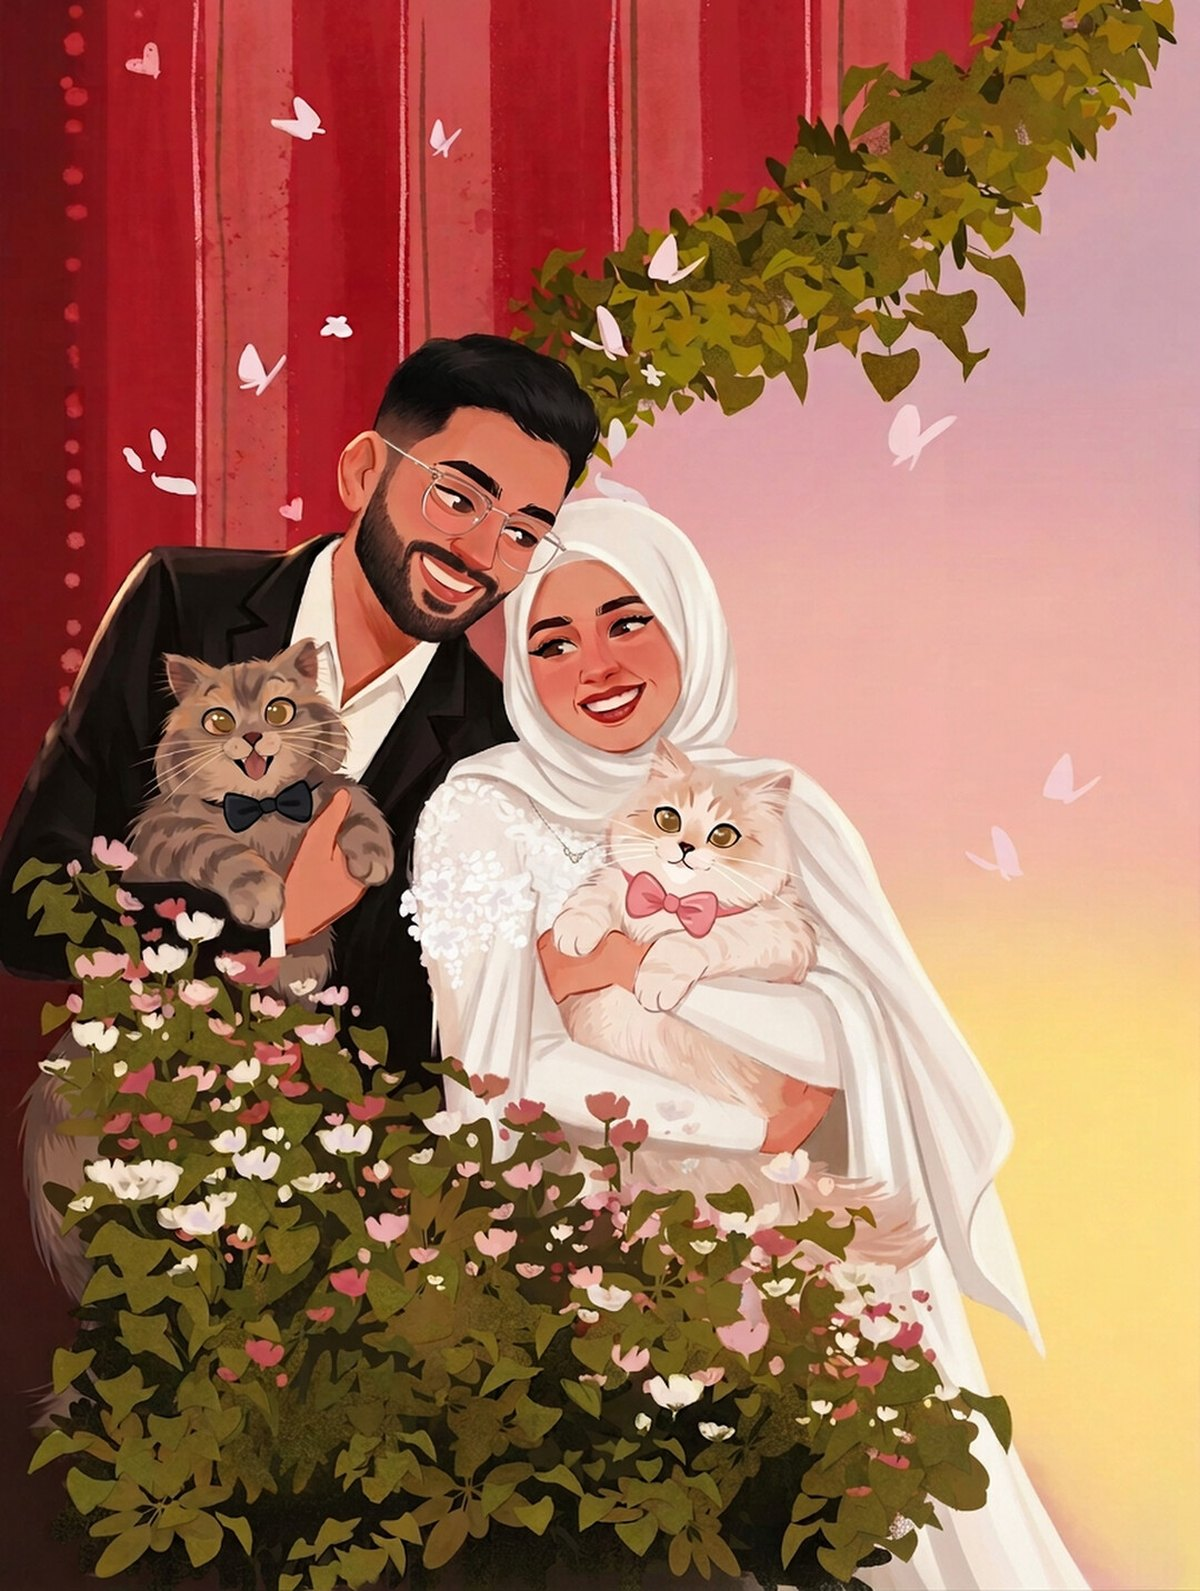
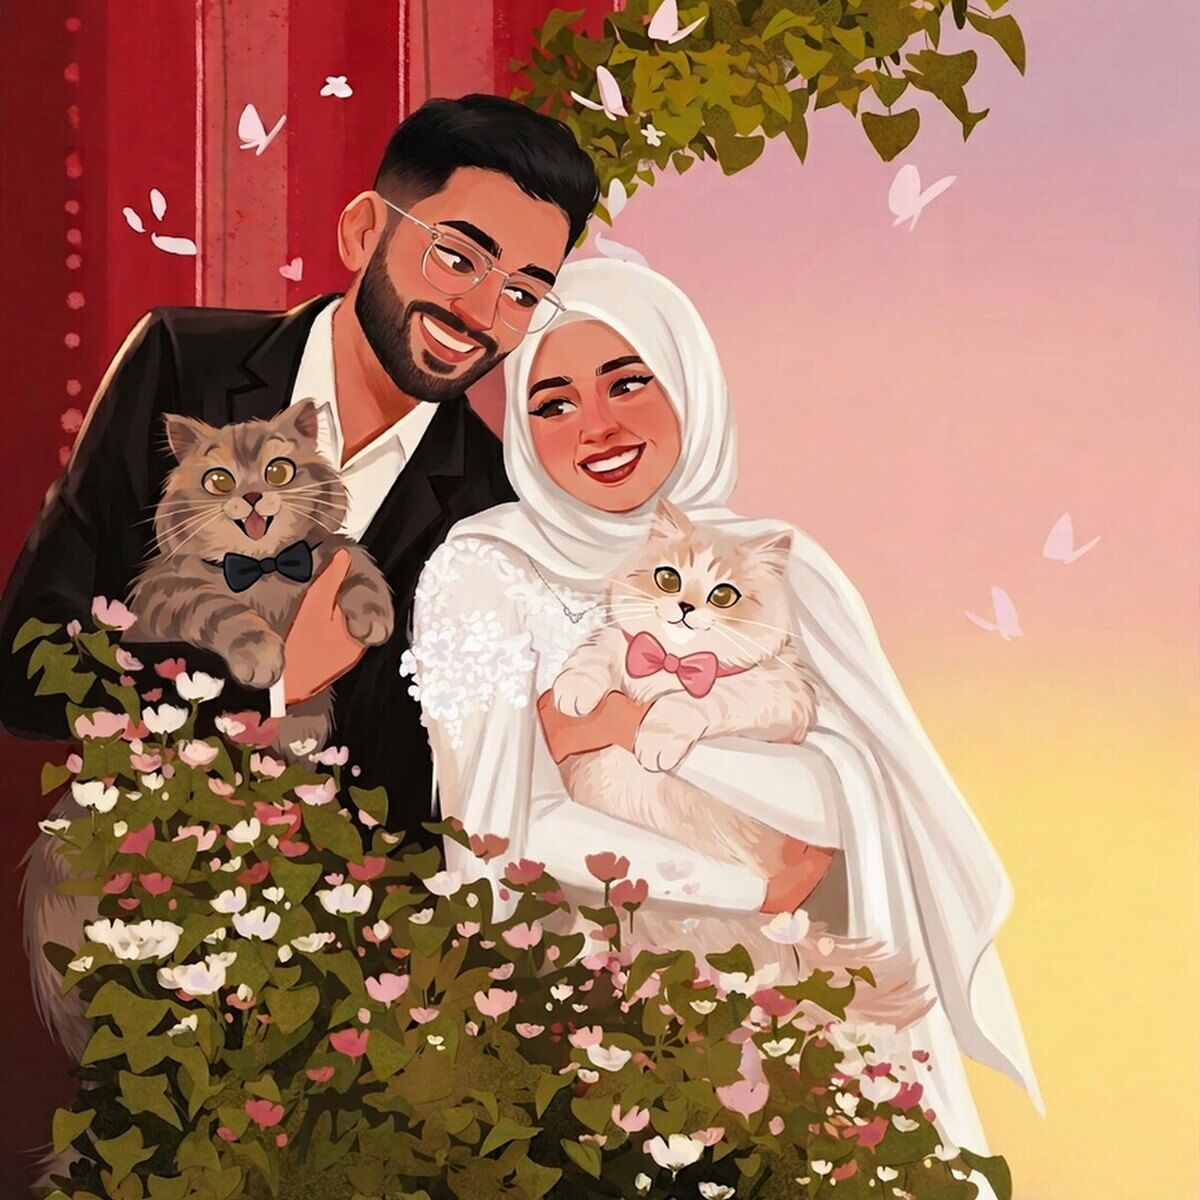
Make WhatsApp show a preview image when the link is shared
- Rebuild og-image.jpg as a square 1200x1200 crop of the illustration
  (the couple, both cats, the curtain and butterflies) at 202 KB, so
  the whole artwork shows in chat previews; the old one was a 302 KB
  portrait 1200x1591.
- Declare og:image dimensions, type and alt text (plus
  og:image:secure_url) so the WhatsApp/Facebook crawler can read the
  preview metadata without guessing.

diff --git a/index.html b/index.html
@@ -19,6 +19,11 @@
       content="Saturday, 27 March 2027 · Diva Talkha Hall, Talkha, Dakahlia — we would love to celebrate with you."
     />
     <meta property="og:image" content="https://dotprogr.github.io/ahmed-menna/og-image.jpg" />
+    <meta property="og:image:secure_url" content="https://dotprogr.github.io/ahmed-menna/og-image.jpg" />
+    <meta property="og:image:type" content="image/jpeg" />
+    <meta property="og:image:width" content="1200" />
+    <meta property="og:image:height" content="1200" />
+    <meta property="og:image:alt" content="Ahmed and Menna Allah with their two cats" />
     <meta name="twitter:card" content="summary_large_image" />
     <link
       rel="icon"
